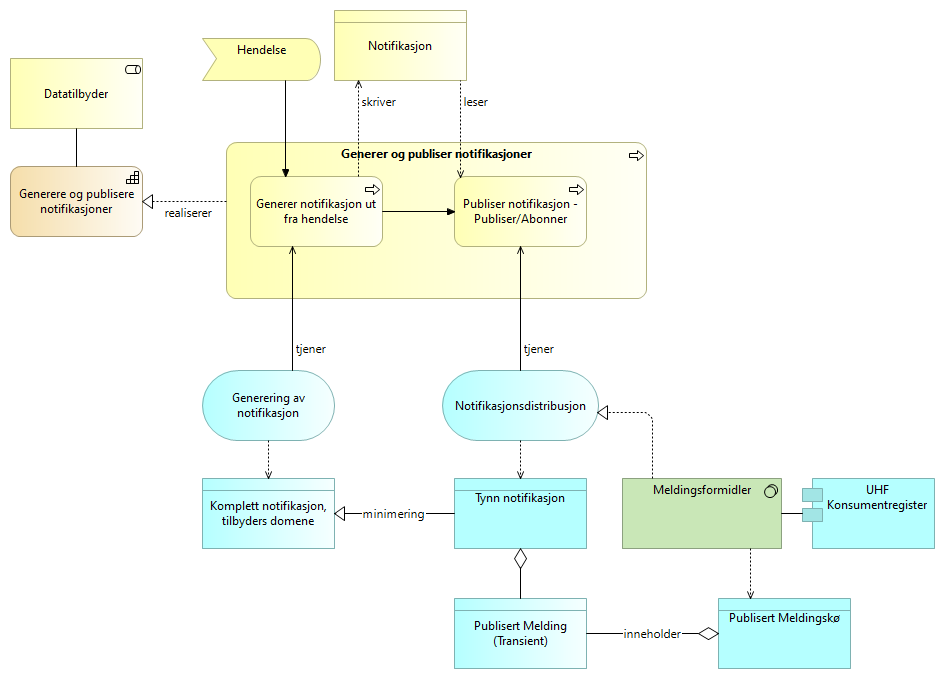
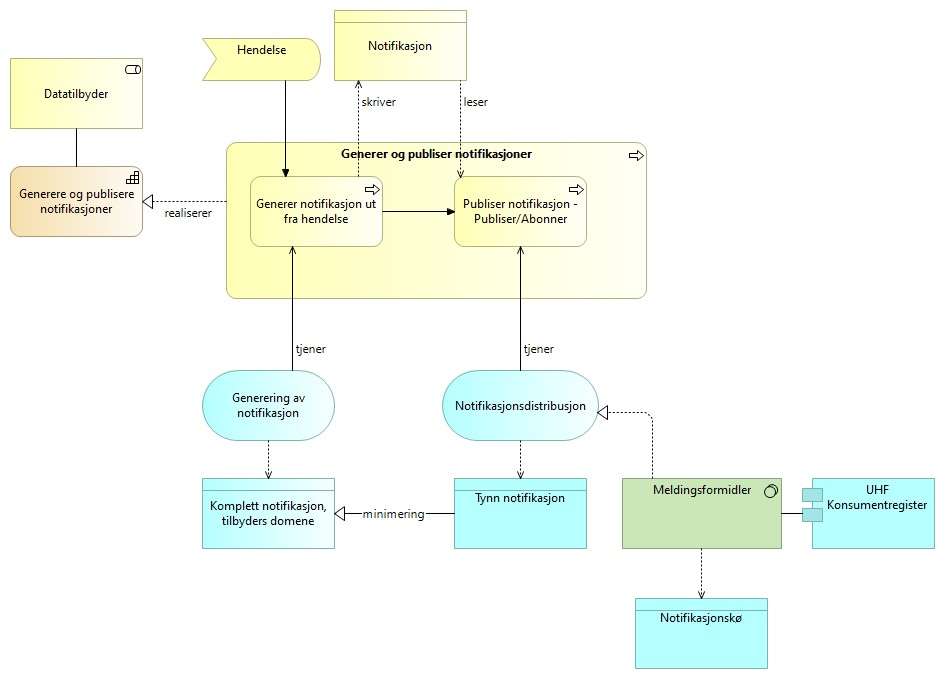
Dev

Changed region(s): [[0.6444, 0.866, 0.9206, 0.9897], [0.4603, 0.866, 0.6138, 0.9897]]

diff --git a/unit-ra/main/unit-ra-datadeling-sammendrag/Sammendrag.html b/unit-ra/main/unit-ra-datadeling-sammendrag/Sammendrag.html
@@ -270,7 +270,7 @@ med informasjonsforvaltning, behandlet i neste seksjon.</p>
 Vi kan dele sektorenes prosesser i to kategorier, som vist i Figur 4.
 Administrasjons- og støtteprosesser er forholdsvis stabile, og sektorene har et mål om å standardisere disse på tvers av institusjonene. Standardiseringen gir økt effektivitet og evne til samhandling mellom institusjonene, samtidig som den gir et felles fundament for innovasjon i lærings- og forskningsprosesser.
 Læring og forskning skal skje på den måten studenter, undervisere og forskere mener fungerer best i hvert enkelt tilfelle.
-Lærings- og forskningsprosesser blir dermed dynamiske og ulike. Sektorenes to kategori av prosesser trenger forskjellige typer støtte for datadeling.</p>
+Lærings- og forskningsprosesser blir dermed dynamiske og ulike. Sektorenes to kategorier av prosesser trenger forskjellige typer støtte for datadeling.</p>
 </div>
 <div class="paragraph">
 <p>For arbeid med administrative prosesser trenger høyere utdannings- og forskningssektorene felles begreper for opplysninger om personer, studieemner og forskningsprosjekt. Her trenger sektorene støtte for arbeid med standardisering av både begreper og prosesser som bruker dem.
@@ -279,9 +279,9 @@ De standardiserte prosessene kan utføres lokalt hos institusjonene, og tilhøre
 <div class="paragraph">
 <p>Lærings- og forskningsprosesser har behov for delte
 dataressurser på tvers av institusjoner.
-De trenger et bredest mulig tilgang til læringsobjekter
+De trenger bredest mulig tilgang til læringsobjekter
 og forskningsresultater.
-Disse prosessene trenger derfor god støtte for datadeling på tvers av institusjoner, også internasjonalt. <sup class="footnote">[<a id="_footnoteref_1" class="footnote" href="#_footnotedef_1" title="View footnote.">1</a>]</sup></p>
+Disse prosessene trenger derfor god støtte for datadeling på tvers av institusjoner, og internasjonalt. <sup class="footnote">[<a id="_footnoteref_1" class="footnote" href="#_footnotedef_1" title="View footnote.">1</a>]</sup></p>
 </div>
 <div class="paragraph">
 <p><span class="image"><img src="_images/image4.png" alt="image4"></span></p>
@@ -307,7 +307,7 @@ for en gruppe studenter typisk ønske å forvalte informasjon om
 oppgaver som hører til emnet, hvilke læringsobjekter som kan være
 relevant og resultater knyttet til oppgavene.
 Informasjonen benyttet her vil inkludere noe informasjon gjenbrukt fra grunnleggende domener, representert ved den grønne pilen i figur 5.
-Disse domener støtter innovasjon i lærings eller forskningskontekst ved å tilby fleksibilitet og frihet innenfor den enkelte konteksten. Fleksibiliteten oppnås ved å avgrense domenen til der man er enig om en arbeidsmåte som passer til oppgavene.</p>
+Disse domener støtter innovasjon i lærings eller forskningskontekst ved å tilby fleksibilitet og frihet innenfor den enkelte konteksten. Fleksibiliteten oppnås ved å avgrense domenet til der en er enig om en arbeidsmåte som passer til oppgavene.</p>
 </div>
 <div class="paragraph">
 <p><span class="image"><img src="_images/image5.png" alt="image5"></span></p>
@@ -326,7 +326,7 @@ domenet for å sikre riktig kvalitet, utnytting og sikring av informasjon
 i domenet</p>
 </li>
 <li>
-<p><strong>Begrepsansvarlig</strong>, med det faglige ansvaret for et begreps innhold</p>
+<p><strong>Begrepsansvarlig</strong>, med det faglige ansvaret for innhold av begrep som hører til domenet</p>
 </li>
 </ul>
 </div>

diff --git a/unit-ra/main/Bøker/Referansearkitektur for deling av data i høyere utdanning og forsking.html b/unit-ra/main/Bøker/Referansearkitektur for deling av data i høyere utdanning og forsking.html
@@ -155,7 +155,7 @@
 </div>
 <div class="listingblock">
 <div class="content">
-<pre>Fri Mar 18 2022 11:42:34 GMT+0100 (CET)</pre>
+<pre>Tue Mar 22 2022 09:16:57 GMT+0100 (CET)</pre>
 </div>
 </div>
 </div>
@@ -1250,7 +1250,7 @@ på lokale servere («on-premise») og i skybaserte-løsninger.</p>
 initiativer, slik som Digitaliseringsdirektoratets "Orden i eget hus" og
 andre nasjonale og sektorvise digitaliseringsstrategier skal understøtte
 deling av data. I en slik sammenheng ser vi behovet for et felles API
-Management-regime i høyere utdannings- og forkninssektorene.</p>
+Management-regime i høyere utdannings- og  forskningssektorene.</p>
 </div>
 <div class="paragraph">
 <p>Et slikt regime muliggjør deling av data for å oppnå sammenhengende
@@ -1443,7 +1443,7 @@ utdanning og forskning til Felles API-katalog som visst i figuren under.</p>
 <h2 id="_datautveksling"><a class="anchor" href="#_datautveksling"></a>5. Datautveksling</h2>
 <div class="sectionbody">
 <div class="paragraph">
-<p>Fellestjenestene i datadelingsplattformen brukes i felles prosesser for å dele data. Gjennom å utføre en fellesprosess, vil en datakonsument eller en datatilbyder oppnå et evne (kapabilitet). Dette kapittelet beskriver de fellesprosessene som er definert for deling av data, og de evnene som oppnås. Prosessbeskrivelsen viser hvilke tjenester støtter prosessen, og hvilke komponenter realiserer tjenestene. Prosessbeskrivelsen viser også de sentrale forretningsobjekter og dataobjekter som benyttes og produseres underveis. Både tjenester og komponenter kan aksessere dataobjekter.</p>
+<p>Fellestjenestene i datadelingsplattformen brukes i felles prosesser for å dele data. Gjennom å utføre en fellesprosess, vil en datakonsument eller en datatilbyder oppnå en evne (kapabilitet). Dette kapittelet beskriver de fellesprosessene som er definert for deling av data, og de evnene som oppnås ved å benytte dem. Prosessbeskrivelsen viser hvilke tjenester støtter prosessen, og hvilke komponenter realiserer tjenestene. Prosessbeskrivelsen viser også de sentrale forretningsobjekter og dataobjekter som benyttes og produseres underveis. Både tjenester og komponenter kan aksessere dataobjekter.</p>
 </div>
 <div class="paragraph">
 <p>Prosessbeskrivelsene er presentert i <a href="https://www.opengroup.org/archimate-forum/archimate-overview">ArchiMate modelleringsspråk</a>. Vår bruk av Archimate er beskrevet i Vedlegg F.</p>

diff --git a/unit-ra/main/unit-ra-datadeling-datautveksling/Datautveksling.html b/unit-ra/main/unit-ra-datadeling-datautveksling/Datautveksling.html
@@ -152,7 +152,7 @@
 <div id="preamble">
 <div class="sectionbody">
 <div class="paragraph">
-<p>Fellestjenestene i datadelingsplattformen brukes i felles prosesser for å dele data. Gjennom å utføre en fellesprosess, vil en datakonsument eller en datatilbyder oppnå et evne (kapabilitet). Dette kapittelet beskriver de fellesprosessene som er definert for deling av data, og de evnene som oppnås. Prosessbeskrivelsen viser hvilke tjenester støtter prosessen, og hvilke komponenter realiserer tjenestene. Prosessbeskrivelsen viser også de sentrale forretningsobjekter og dataobjekter som benyttes og produseres underveis. Både tjenester og komponenter kan aksessere dataobjekter.</p>
+<p>Fellestjenestene i datadelingsplattformen brukes i felles prosesser for å dele data. Gjennom å utføre en fellesprosess, vil en datakonsument eller en datatilbyder oppnå en evne (kapabilitet). Dette kapittelet beskriver de fellesprosessene som er definert for deling av data, og de evnene som oppnås ved å benytte dem. Prosessbeskrivelsen viser hvilke tjenester støtter prosessen, og hvilke komponenter realiserer tjenestene. Prosessbeskrivelsen viser også de sentrale forretningsobjekter og dataobjekter som benyttes og produseres underveis. Både tjenester og komponenter kan aksessere dataobjekter.</p>
 </div>
 <div class="paragraph">
 <p>Prosessbeskrivelsene er presentert i <a href="https://www.opengroup.org/archimate-forum/archimate-overview">ArchiMate modelleringsspråk</a>. Vår bruk av Archimate er beskrevet i Vedlegg F.</p>

diff --git a/unit-ra/main/unit-ra-datadeling-datautveksling/Generere og publisere notifikasjoner - Publiser og Abonner UHF .var.1.html b/unit-ra/main/unit-ra-datadeling-datautveksling/Generere og publisere notifikasjoner - Publiser og Abonner UHF .var.1.html
@@ -244,13 +244,6 @@ Gå tilbake til standardvisning ved å klikke 'tilbake' (eller lukk dette vindue
 </div></div></td>
 </tr>
 <tr>
-<td class="tableblock halign-left valign-top"><p class="tableblock">Publisert Melding (Transient)</p></td>
-<td class="tableblock halign-left valign-top"><div class="content"><div class="paragraph">
-<p>Den transiente meldingen som abonnenten leser.
-Når meldingen er lest forsvinner den fra innboksen til abonnenten</p>
-</div></div></td>
-</tr>
-<tr>
 <td class="tableblock halign-left valign-top"><p class="tableblock">Hendelse</p></td>
 <td class="tableblock halign-left valign-top"><div class="content"><div class="paragraph">
 <p>En hendelse som resulterer i endring av et datagrunnlag.</p>
@@ -287,9 +280,9 @@ autoritativt for</p>
 </div></div></td>
 </tr>
 <tr>
-<td class="tableblock halign-left valign-top"><p class="tableblock">Publisert Meldingskø</p></td>
+<td class="tableblock halign-left valign-top"><p class="tableblock">Notifikasjonskø</p></td>
 <td class="tableblock halign-left valign-top"><div class="content"><div class="paragraph">
-<p>Meldingskø som inneholder meldinger publisert for en gitt abonnent av notifikasjoner om en gitt topic.</p>
+<p>Notifikasjonskø som inneholder notifikasjoner publisert for en gitt abonnent av notifikasjoner om en gitt topic.</p>
 </div></div></td>
 </tr>
 <tr>

diff --git a/unit-ra/main/unit-ra-datadeling-datautveksling/Grunnleggende begreper for publisering av hendelser - Hendelsesliste, Publiser og Abonner UHF.var.1.html b/unit-ra/main/unit-ra-datadeling-datautveksling/Grunnleggende begreper for publisering av hendelser - Hendelsesliste, Publiser og Abonner UHF.var.1.html
@@ -197,16 +197,9 @@ Gå tilbake til standardvisning ved å klikke 'tilbake' (eller lukk dette vindue
 <td class="tableblock halign-left valign-top"><div class="content"></div></td>
 </tr>
 <tr>
-<td class="tableblock halign-left valign-top"><p class="tableblock">Publisert Melding (Transient)</p></td>
+<td class="tableblock halign-left valign-top"><p class="tableblock">Notifikasjonskø</p></td>
 <td class="tableblock halign-left valign-top"><div class="content"><div class="paragraph">
-<p>Den transiente meldingen som abonnenten leser.
-Når meldingen er lest forsvinner den fra innboksen til abonnenten</p>
-</div></div></td>
-</tr>
-<tr>
-<td class="tableblock halign-left valign-top"><p class="tableblock">Publisert Meldingskø</p></td>
-<td class="tableblock halign-left valign-top"><div class="content"><div class="paragraph">
-<p>Meldingskø som inneholder meldinger publisert for en gitt abonnent av notifikasjoner om en gitt topic.</p>
+<p>Notifikasjonskø som inneholder notifikasjoner publisert for en gitt abonnent av notifikasjoner om en gitt topic.</p>
 </div></div></td>
 </tr>
 <tr>

diff --git a/unit-ra/main/unit-ra-datadeling-datautveksling/Konsumer notifikasjoner - Publiser og Abonner UHF.var.1.html b/unit-ra/main/unit-ra-datadeling-datautveksling/Konsumer notifikasjoner - Publiser og Abonner UHF.var.1.html
@@ -248,16 +248,9 @@ Gå tilbake til standardvisning ved å klikke 'tilbake' (eller lukk dette vindue
 </div></div></td>
 </tr>
 <tr>
-<td class="tableblock halign-left valign-top"><p class="tableblock">Publisert Melding (Transient)</p></td>
+<td class="tableblock halign-left valign-top"><p class="tableblock">Notifikasjonskø</p></td>
 <td class="tableblock halign-left valign-top"><div class="content"><div class="paragraph">
-<p>Den transiente meldingen som abonnenten leser.
-Når meldingen er lest forsvinner den fra innboksen til abonnenten</p>
-</div></div></td>
-</tr>
-<tr>
-<td class="tableblock halign-left valign-top"><p class="tableblock">Publisert Meldingskø</p></td>
-<td class="tableblock halign-left valign-top"><div class="content"><div class="paragraph">
-<p>Meldingskø som inneholder meldinger publisert for en gitt abonnent av notifikasjoner om en gitt topic.</p>
+<p>Notifikasjonskø som inneholder notifikasjoner publisert for en gitt abonnent av notifikasjoner om en gitt topic.</p>
 </div></div></td>
 </tr>
 <tr>

diff --git a/unit-ra/main/unit-ra-datadeling-målarkitekturen/Datadelingsplattformen og fellestjenestene i den.html b/unit-ra/main/unit-ra-datadeling-målarkitekturen/Datadelingsplattformen og fellestjenestene i den.html
@@ -238,7 +238,7 @@ på lokale servere («on-premise») og i skybaserte-løsninger.</p>
 initiativer, slik som Digitaliseringsdirektoratets "Orden i eget hus" og
 andre nasjonale og sektorvise digitaliseringsstrategier skal understøtte
 deling av data. I en slik sammenheng ser vi behovet for et felles API
-Management-regime i høyere utdannings- og forkninssektorene.</p>
+Management-regime i høyere utdannings- og  forskningssektorene.</p>
 </div>
 <div class="paragraph">
 <p>Et slikt regime muliggjør deling av data for å oppnå sammenhengende

diff --git a/unit-ra/main/unit-ra-datadeling-målarkitekturen/Føderert API management.html b/unit-ra/main/unit-ra-datadeling-målarkitekturen/Føderert API management.html
@@ -161,7 +161,7 @@ på lokale servere («on-premise») og i skybaserte-løsninger.</p>
 initiativer, slik som Digitaliseringsdirektoratets "Orden i eget hus" og
 andre nasjonale og sektorvise digitaliseringsstrategier skal understøtte
 deling av data. I en slik sammenheng ser vi behovet for et felles API
-Management-regime i høyere utdannings- og forkninssektorene.</p>
+Management-regime i høyere utdannings- og  forskningssektorene.</p>
 </div>
 <div class="paragraph">
 <p>Et slikt regime muliggjør deling av data for å oppnå sammenhengende
